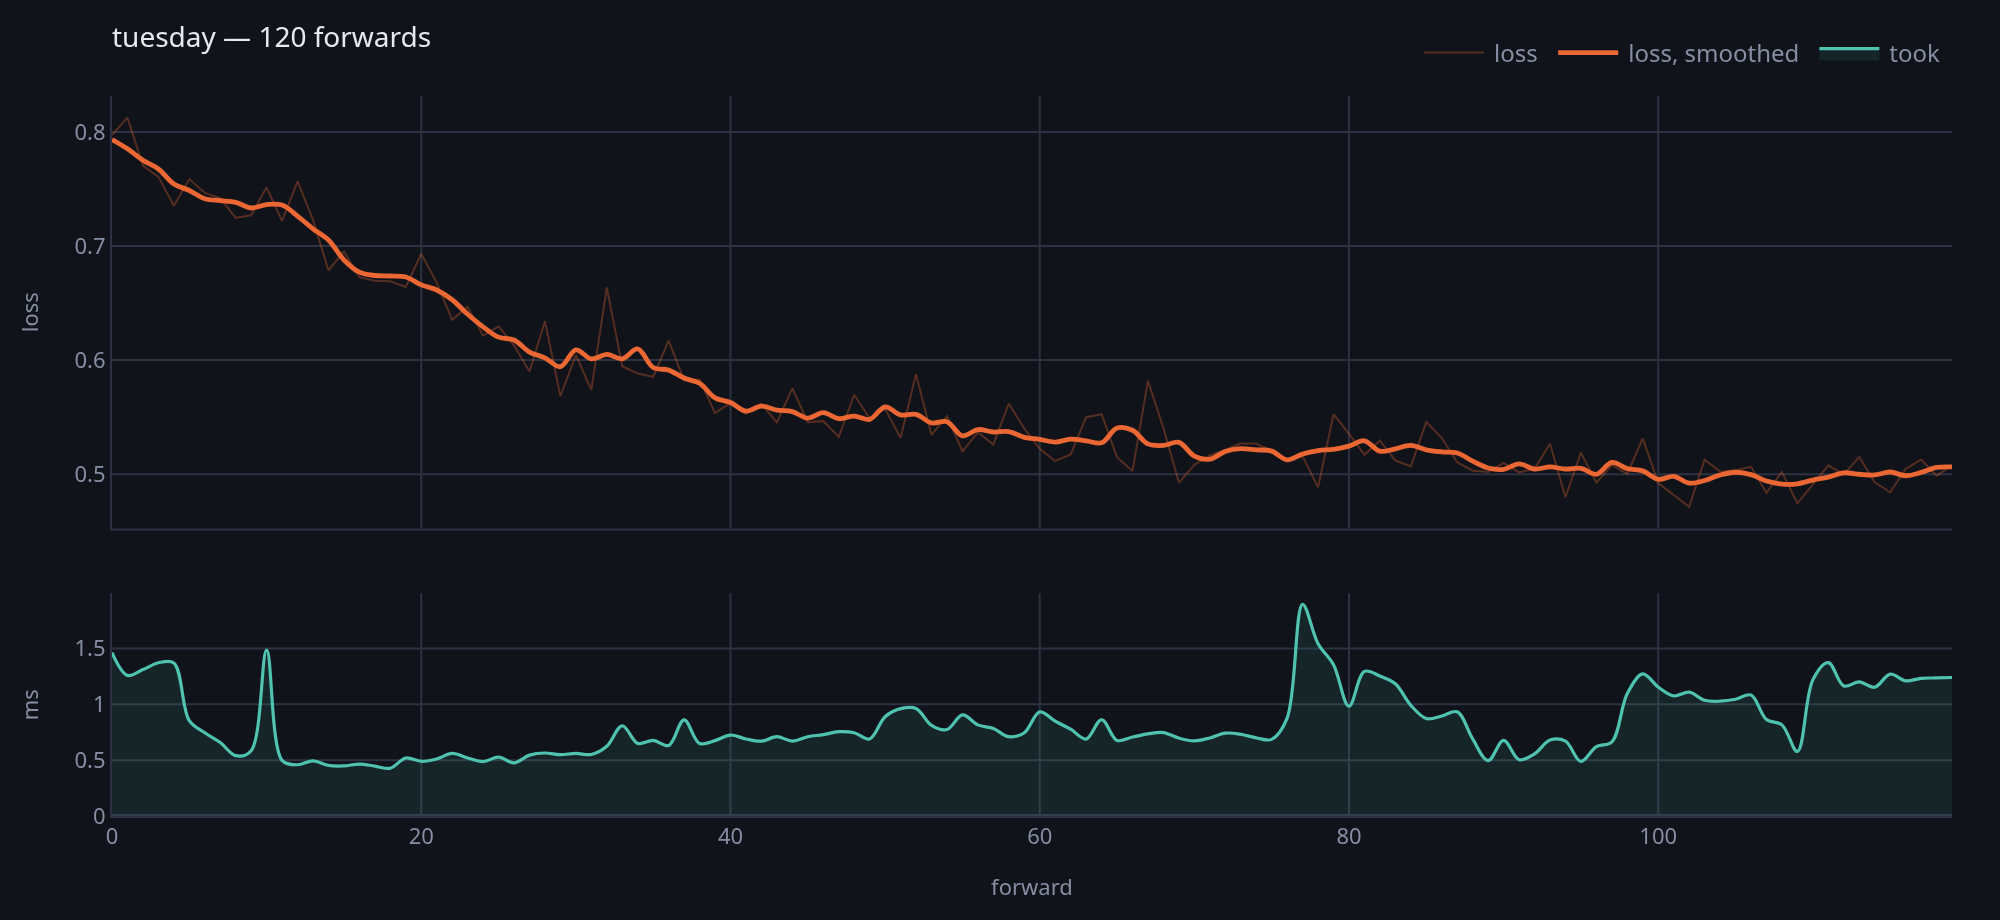
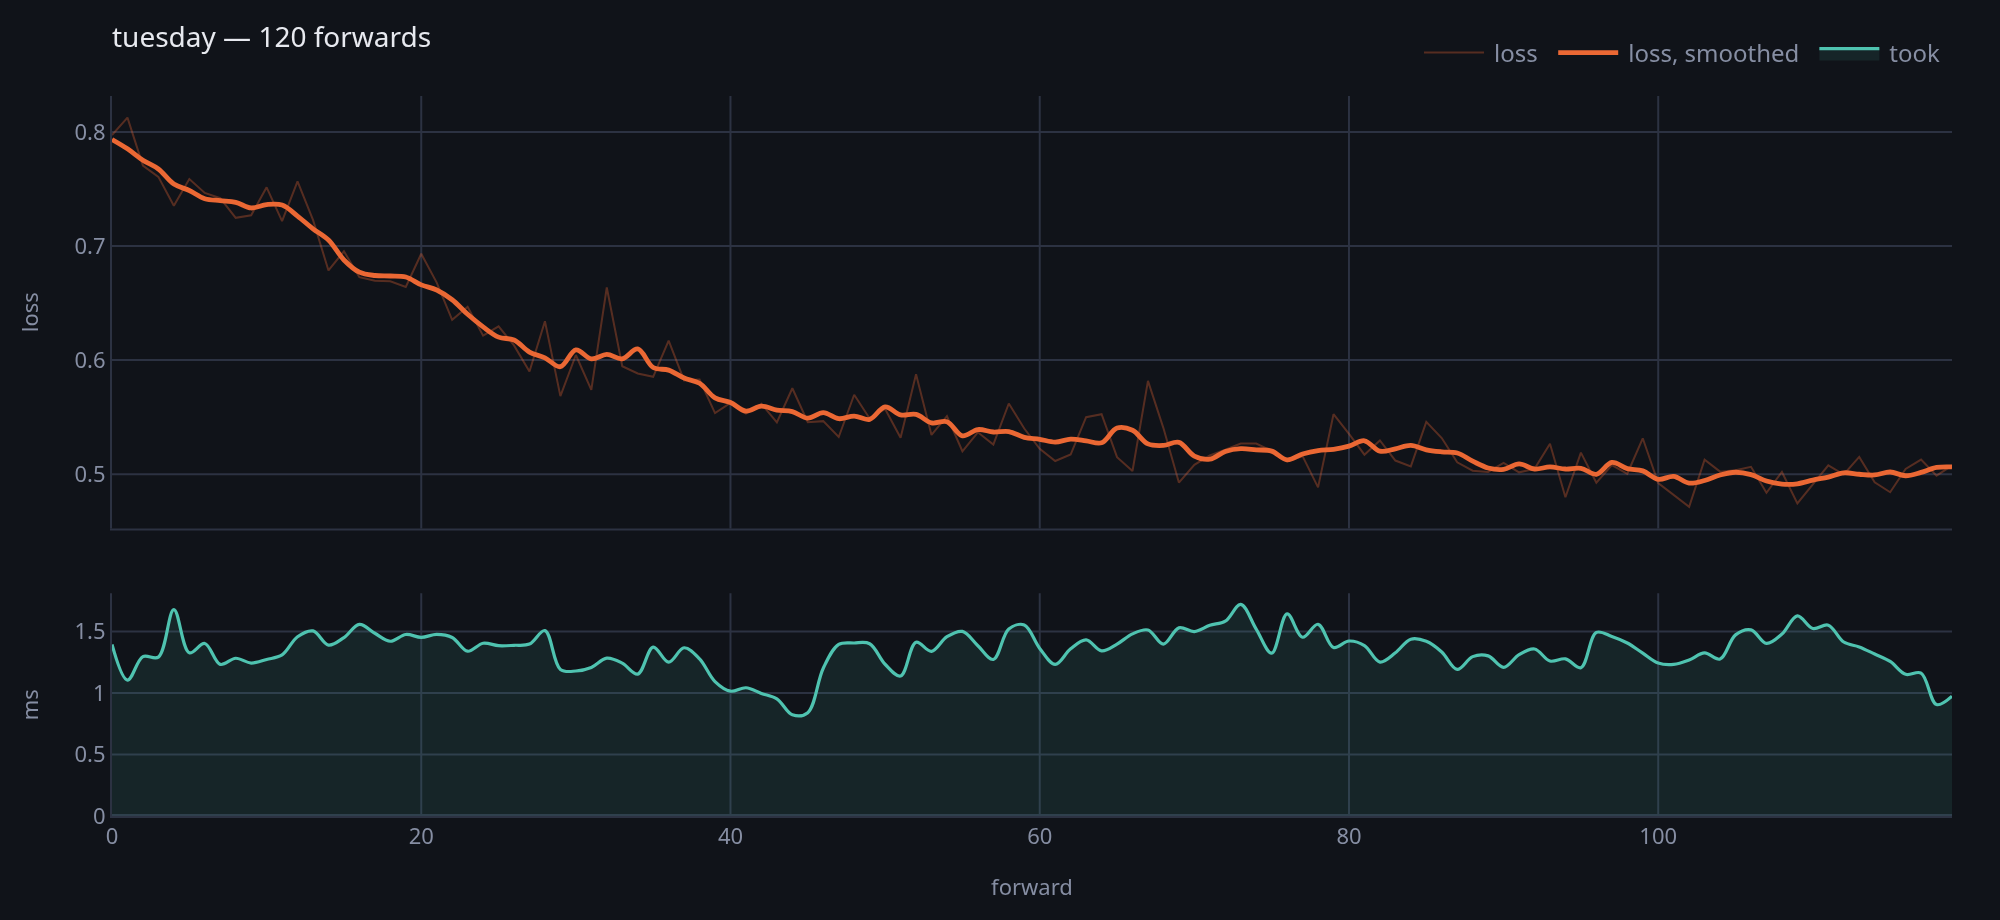
docs: the reasoning drawn, which is the last Start here page that argued without showing
`start/an-investigation` described a DAG of five kinds with a standing derived
rather than stored, and showed a terminal transcript. The library draws that
DAG, so now the page does: `why-recall` open, `threshold-too-strict` validated,
the attempt and the finding under it, and the abandoned line as a dashed box
saying how many it hides.

It is worth the picture for the one rule the outline cannot show: **hue says
which of the five kinds a move is and never whether it went well**. How a
question stands is written on it, in words — because a colour that meant
good-or-bad would be the same channel carrying two facts, which is what this
library refuses everywhere it draws.

The group that makes it is the only one needing something **built**: moves are
written by the `somatize-tree` binary, since asking and deciding happen between
runs and the library only reads them back. It runs the same session the page
shows against the same fixture the end-to-end tests use, so the figure and the
commands beside it cannot drift. Missing binary stops it with the `cargo build`
line rather than skipping — a generator that quietly draws fourteen of fifteen
is the failure this repository already learnt once.

Its store is isolated with `XDG_CACHE_HOME`, because the default is shared by
every repository answering to the same `tree`, and two runs would collide on
the move names. That cost a turn the first time.

All five `Start here` pages now show what they claim.
[…]

Changed region(s): [[0.031, 0.6696, 0.992, 0.8522], [0.031, 0.8217, 0.062, 0.8522]]

diff --git a/docs/scripts/figures.py b/docs/scripts/figures.py
@@ -443,7 +443,80 @@ def an_architecture(into: dict[str, bytes]) -> None:
     )
 
 
-GROUPS = {"graph": a_graph, "architecture": an_architecture, "study": a_study, "run": a_run, "health": health}
+# ── The reasoning of an investigation ────────────────────────────────────────
+
+
+def reasoning(into: dict[str, bytes]) -> None:
+    """The DAG behind an investigation, drawn from what was written down.
+
+    The only group that needs something built rather than installed: the moves
+    are written by the `somatize-tree` binary, because asking, supposing and
+    deciding happen between runs and the library only reads them back.
+
+    It runs the very session `start/an-investigation` shows, against the very
+    fixture the end-to-end tests use, so the page's figure and the page's
+    commands cannot drift apart.
+    """
+    import os
+    import subprocess
+
+    from somatize import Store
+    from somatize.reasoning import figure, moves, standing
+
+    root = Path(__file__).resolve().parent.parent.parent
+    binary = os.environ.get("SOMA_TREE_BIN", str(root / "target/release/somatize-tree"))
+    if not Path(binary).exists():
+        raise SystemExit(
+            f"{binary} is not there. This group writes moves with the CLI:\n"
+            "  cargo build --release -p somatize-tree"
+        )
+
+    where = Path(tempfile.mkdtemp())
+    repo, cache = where / "repo", where / "cache"
+    repo.mkdir()
+    subprocess.run(
+        ["bash", str(root / "soma-tree/tests/an-investigation.sh"), "--only-build", str(repo)],
+        check=True, capture_output=True,
+    )
+
+    # Its own cache, because the default store is shared by every repository
+    # answering to the same `tree` in `soma-tree.toml` — two runs of this would
+    # otherwise collide on the move names.
+    env = {**os.environ, "XDG_CACHE_HOME": str(cache)}
+
+    def tree(*args: str) -> None:
+        subprocess.run([binary, *args], cwd=repo, env=env, check=True, capture_output=True)
+
+    strict = subprocess.run(
+        ["git", "rev-parse", "--short", "HEAD~2"], cwd=repo, capture_output=True, text=True
+    ).stdout.strip()
+    ran = subprocess.run(
+        [binary, "keep"], cwd=repo, env=env, check=True, capture_output=True, text=True,
+        input="python -m experiments.run --threshold 2.0 --seed 7",
+    ).stdout.strip()
+
+    tree("ask", "why-recall", "-m",
+         "Recall sits at 0.61 and nothing we change moves it. What is holding it down?")
+    tree("suppose", "threshold-too-strict", "--under", "why-recall", "-m",
+         "The strict classifier at 2.0 throws away the short documents.")
+    tree("suppose", "embedding-too-flat", "--under", "why-recall", "-m",
+         "A linear embedding cannot separate them at all, whatever the threshold.")
+    tree("tried", "at-2.0", "--under", "threshold-too-strict", "--cites", strict,
+         "--ran", ran, "-m", "Ran the strict classifier at 2.0 on the full split.")
+    tree("found", "short-docs-lost", "--under", "at-2.0", "-m",
+         "Recall on documents under 20 tokens is 0.31; on the rest it is 0.79.")
+    tree("says", "short-docs-lost", "validates", "threshold-too-strict", "--about", "at-2.0")
+    tree("says", "short-docs-lost", "refutes", "embedding-too-flat", "--partly")
+    tree("decide", "abandon", "drop-flat-embedding", "--about", "embedding-too-flat", "-m",
+         "The split by length explains it; the embedding is not the problem.")
+
+    store = Store(str(cache / "somatize-tree"))
+    print(f"  moves: {len(moves(store, tree='an-investigation'))}, "
+          f"standing: {standing(store, tree='an-investigation')}")
+    drawn(figure(store, tree="an-investigation"), "reasoning", into, width=980, height=300)
+
+
+GROUPS = {"graph": a_graph, "reasoning": reasoning, "architecture": an_architecture, "study": a_study, "run": a_run, "health": health}
 
 
 def main() -> None:

diff --git a/docs/src/content/docs/project/contributing.md b/docs/src/content/docs/project/contributing.md
@@ -128,8 +128,9 @@ sidebar, and the guard fails until it is.
 
 The **figures** on the hand-written pages are committed for the same reason:
 drawing one needs torch, plotly and kaleido. `python docs/scripts/figures.py`
-redraws all of them from real runs in about thirty-five seconds, with fixed
-seeds. Astro fails the build if a page points at a figure that is not there, so
+redraws all of them from real runs, with fixed seeds. One group also needs
+`cargo build --release -p somatize-tree`, because the reasoning DAG's moves are
+written by the CLI; it says so and stops rather than skipping. Astro fails the build if a page points at a figure that is not there, so
 they can go stale but not missing.
 
 The reference has one step the others do not, because reading a docstring needs

diff --git a/docs/README.md b/docs/README.md
@@ -63,6 +63,15 @@ python docs/scripts/figures.py            # all of them, about 35 seconds
 python docs/scripts/figures.py study      # one group, without pruning the rest
 ```
 
+One group needs more than an environment: `reasoning` writes its moves with the
+`somatize-tree` **binary**, because asking and deciding happen between runs and
+the library only reads them back. Build it first, or point `SOMA_TREE_BIN` at
+one — it says so and stops rather than skipping:
+
+```bash
+cargo build --release -p somatize-tree
+```
+
 Seeds are fixed, so two runs give the same pictures. There is **no `--check`**:
 a figure is not a hash, and a byte comparison would go red when a font moves.
 What guards them is astro, which fails with `[ImageNotFound]` when a page points

diff --git a/docs/src/content/docs/start/an-investigation.md b/docs/src/content/docs/start/an-investigation.md
@@ -174,6 +174,14 @@ why-recall · question · open · Recall sits at 0.61 and nothing we change move
     ⋯ 1 folded · abandon · The split by length explains it; the embedding is not the proble…
 ```
 
+And it draws, from the same store and with nothing run again:
+
+![The investigation as a DAG](../../../assets/figures/reasoning.png)
+
+Hue says which of the five kinds a move is and **never whether it went well** —
+how a question stands is written on it, in words. The abandoned line is the
+dashed box, folded, saying how many it hides.
+
 Nobody typed `validated` or `partly-refuted`. Which matters when a commit a
 refutation rested on is later judged `invalid`: the hypothesis goes back to what
 it was before, with nobody saying anything again.
